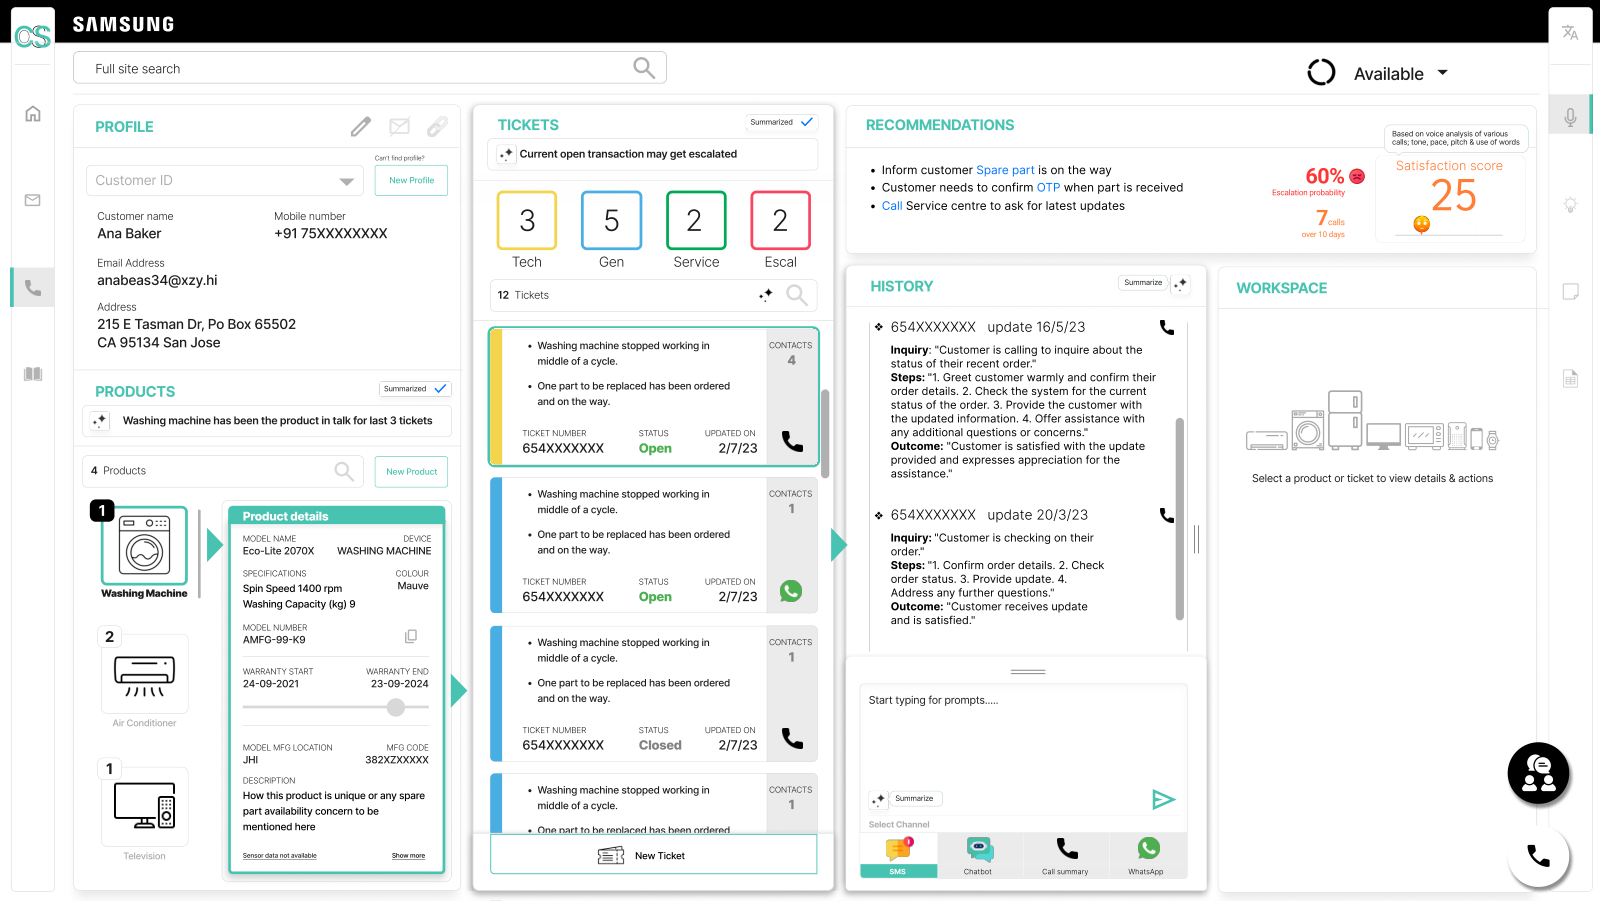
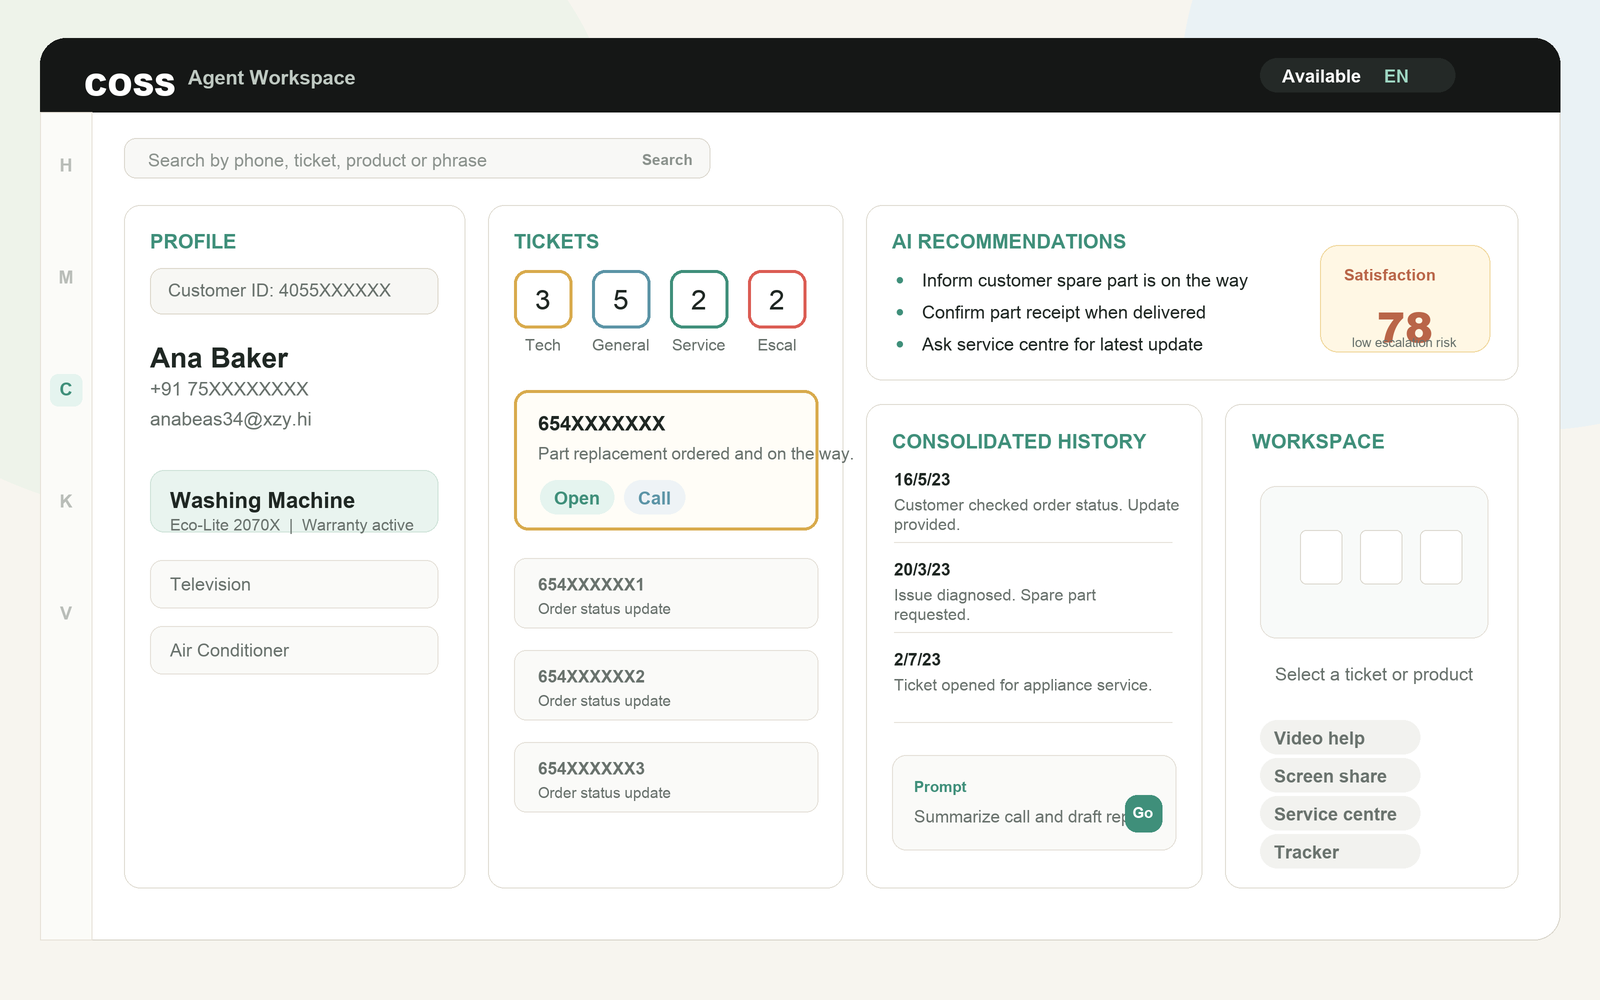
Polish COSS UX visuals

diff --git a/genai-customer-satisfaction.html b/genai-customer-satisfaction.html
@@ -354,6 +354,12 @@
         font-size: 0.88rem;
       }
 
+      .image-stack {
+        display: grid;
+        gap: 18px;
+        margin-top: 28px;
+      }
+
       .quote-band {
         background: var(--ink);
         color: var(--paper);
@@ -651,6 +657,18 @@
             />
           </figure>
         </div>
+        <div class="image-stack">
+          <figure class="doc-image">
+            <img
+              src="assets/generative-ai-coss-case.png"
+              alt="Polished COSS agent workspace showing profile, tickets, AI recommendations, consolidated history, prompt input, and workspace actions."
+            />
+            <figcaption class="caption">
+              Refined COSS workspace mockup showing how the agent begins with profile,
+              ticket, recommendation, history, and action context in one view.
+            </figcaption>
+          </figure>
+        </div>
       </section>
 
       <section class="wrap">
@@ -701,6 +719,28 @@
               remain accessible.
             </p>
           </article>
+        </div>
+        <div class="image-stack">
+          <figure class="doc-image">
+            <img
+              src="assets/coss-ai-autofill-flow.png"
+              alt="Five-step COSS AI assist flow from listening to identifying, summarizing, recommending, and confirming."
+            />
+            <figcaption class="caption">
+              Functioning view: live speech and existing records become editable
+              summaries, recommended actions, and agent-confirmed responses.
+            </figcaption>
+          </figure>
+          <figure class="doc-image">
+            <img
+              src="assets/coss-omnichannel-functioning.png"
+              alt="COSS omnichannel flow connecting call, WhatsApp, email, chatbot, website, and service-centre signals into one timeline and starting context."
+            />
+            <figcaption class="caption">
+              Functioning view: support signals from multiple channels are consolidated
+              into a timeline and prioritized starting context for the agent.
+            </figcaption>
+          </figure>
         </div>
       </section>
 
